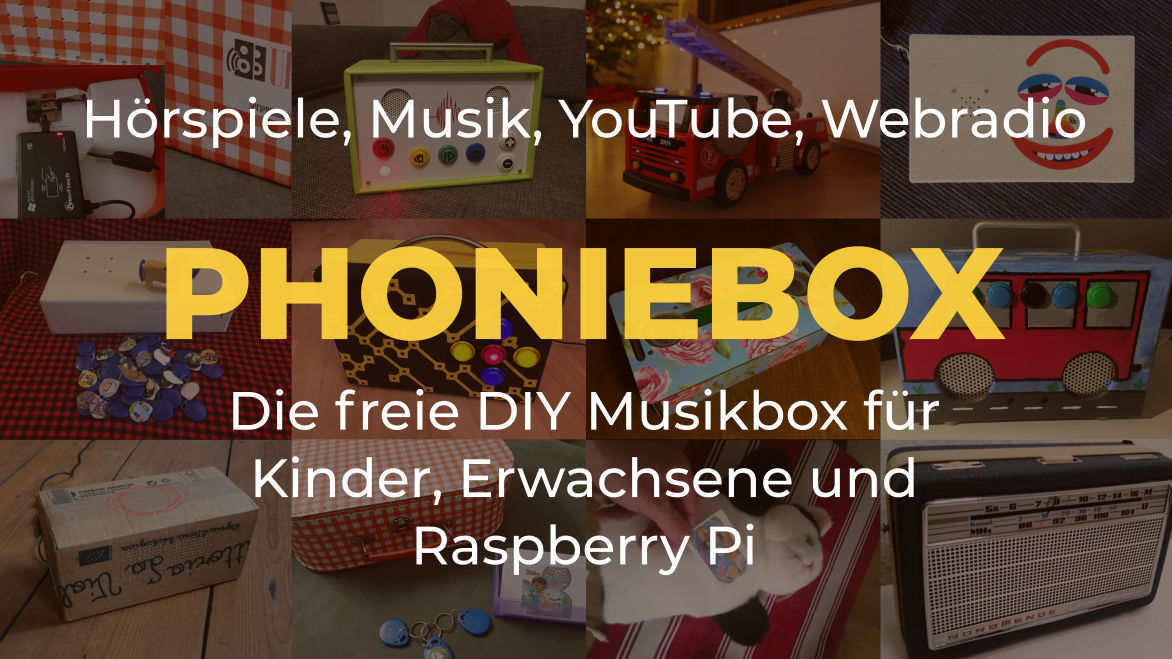
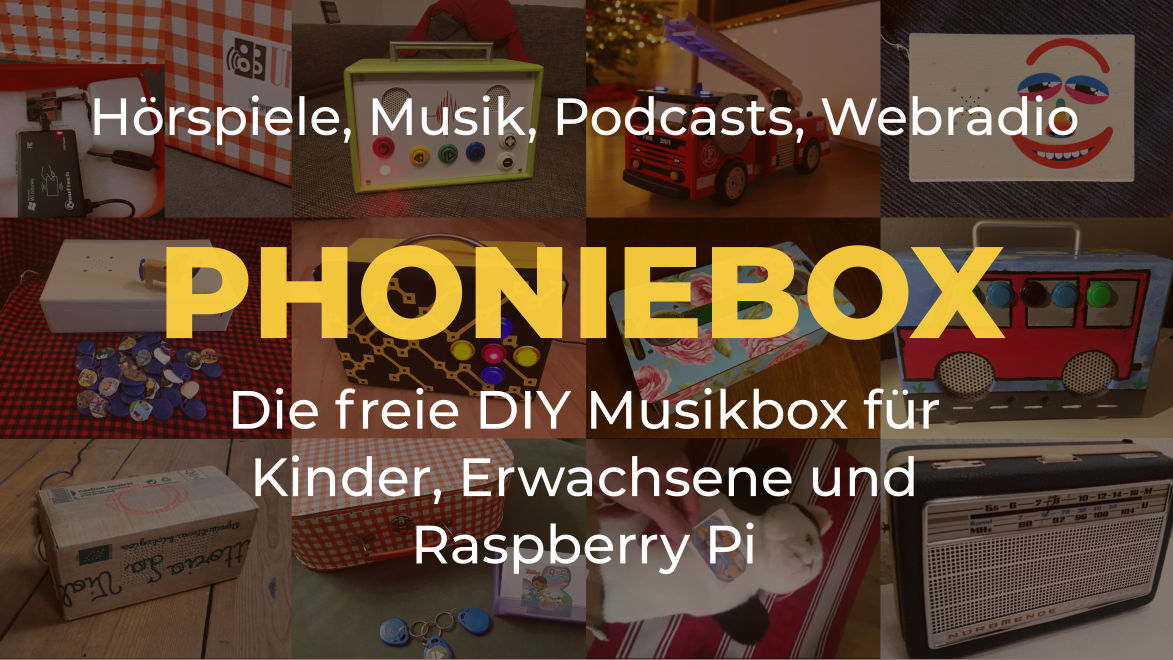
adding podcast

diff --git a/htdocs/inc.lang.php b/htdocs/inc.lang.php
@@ -7,13 +7,13 @@ $lang['de']['languageDeAbbrev'] = "de";
 $lang['de']['type'] = "website";
 $lang['de']['author'] = "Micz Flor";
 $lang['de']['title'] = "Phoniebox - die freie Musikbox für Kinder, Erwachsene und Bastler/innen";
-$lang['de']['description'] = "Hörspiele, Musik, sogar YouTube, Webradio und Spotify spielt die Musikbox. Einfach die Phonie-Karte über die Box streichen und der Hörspaß beginnt. Die Komponenten sind schnell zusammengesteckt und die Software gibt es gratis im Netz. Über WLAN lässt sich die Phoniebox auch mit Handy, PC und Tablet steuern.";
+$lang['de']['description'] = "Musik, Podcasts, Hörspiele, YouTube, Webradio, sogar Spotify spielt die Musikbox. Einfach die Phonie-Karte über die Box streichen und der Hörspaß beginnt. Die Komponenten sind schnell zusammengesteckt und die Software gibt es gratis im Netz. Über WLAN lässt sich die Phoniebox auch mit Handy, PC und Tablet steuern.";
 $lang['de']['keywords'] = "Raspberry, DIY, Jukebox, Hörspiele, Musik, YouTube, Webradio, Spotify";
 $lang['de']['url'] = "http://phoniebox.de";
 $lang['de']['imageUrl'] = "http://phoniebox.de/img/Phoniebox-Social-Share-de.jpg";
 $lang['de']['twitterCard'] = "summary_large_image";
 $lang['de']['twitterCreator'] = "@miczflor";
-$lang['de']['headerLeadIn'] = "Hörspiele, Musik, YouTube, Webradio";
+$lang['de']['headerLeadIn'] = "Hörspiele, Podcasts, Musik, YouTube, Webradio";
 $lang['de']['headerTitle'] = "Die Phoniebox";
 $lang['de']['headerStart'] = "So funktioniert's";
 $lang['de']['videoLeadIn'] = "Die Phoniebox im Video erklärt:";
@@ -33,8 +33,8 @@ $lang['de']['timeline02description'] = "Ganz ohne Lötkolben, schnell zusammenge
 $lang['de']['timeline03title'] = "Steuerung über";
 $lang['de']['timeline03subtitle'] = "Handy oder PC";
 $lang['de']['timeline03description'] = "Die Phoniebox ist über WiFi mit deinem Handy, Tablet oder PC verbunden. So kann man sie auch bedienen und mit Musik bestücken.";
-$lang['de']['timeline04title'] = "CDs, Kassetten, MP3";
-$lang['de']['timeline04subtitle'] = "YouTube, Webradio und mehr";
+$lang['de']['timeline04title'] = "CDs? Kassetten? MP3! OGG!";
+$lang['de']['timeline04subtitle'] = "Podcasts, Webradio, YouTube und mehr";
 $lang['de']['timeline04description'] = "Die Phoniebox spielt (fast) alles. Fortgeschrittene Tüftler haben sogar schon <a href='https://github.com/MiczFlor/RPi-Jukebox-RFID/issues/18' target='_blank'>Spotify integriert</a>.";
 $lang['de']['featuresTitle'] = "You never build alone";
 $lang['de']['featuresSubtitle'] = "Freie Software, Community und Raspberry Pi";
@@ -109,13 +109,13 @@ $lang['en']['languageDeAbbrev'] = "de";
 $lang['en']['type'] = "website";
 $lang['en']['author'] = "Micz Flor";
 $lang['en']['title'] = "Phoniebox - free jukebox which is child's play to build and child's play to use.";
-$lang['en']['description'] = "This free DIY contactless jukebox for Raspberry Pi plays local music, audio books, also webradio, live streams, spotify and more. Simply swipe the RFID card, fob or sticker to trigger the audio fun. Quickly assembled from plug'n'play components, this free software solution is fun to build and just as much fun to use.";
-$lang['en']['keywords'] = "Raspberry Pi, DIY, Jukebox, Audio books, Plays, Music, YouTube, Webradio, Spotify";
+$lang['en']['description'] = "This contactless jukebox for Raspberry Pi plays local music and podcasts, audio books, also webradio, live streams, spotify and more. Simply swipe the RFID card, fob or sticker to trigger the audio fun. Quickly assembled from plug'n'play components, this free software solution is fun to build and just as much fun to use.";
+$lang['en']['keywords'] = "Raspberry Pi, Podcasts, DIY, Jukebox, Audio books, Plays, Music, YouTube, Webradio, Spotify";
 $lang['en']['url'] = "http://phoniebox.de";
 $lang['en']['imageUrl'] = "http://phoniebox.de/img/Phoniebox-Social-Share-en.jpg";
 $lang['en']['twitterCard'] = "summary_large_image";
 $lang['en']['twitterCreator'] = "@miczflor";
-$lang['en']['headerLeadIn'] = "Music, Audio Books, YouTube, Webradio";
+$lang['en']['headerLeadIn'] = "Music, Podcasts, Audio Books, YouTube, Webradio";
 $lang['en']['headerTitle'] = "The Phoniebox";
 $lang['en']['headerStart'] = "How it works";
 $lang['en']['videoLeadIn'] = "The Phoniebox video guide:";
@@ -135,8 +135,8 @@ $lang['en']['timeline02description'] = "Quickly assembled from plug'n'play compo
 $lang['en']['timeline03title'] = "Manage via";
 $lang['en']['timeline03subtitle'] = "phone or PC";
 $lang['en']['timeline03description'] = "The Phoniebox is accessible over WiFi from your phone, tablet or PC. This is how you add audio files, streams and register new cards.";
-$lang['en']['timeline04title'] = "CDs, tapes, mp3";
-$lang['en']['timeline04subtitle'] = "YouTube, web radio and more";
+$lang['en']['timeline04title'] = "CDs? Tapes? MP3! OGG!";
+$lang['en']['timeline04subtitle'] = "Podcasts, web radio, YouTube and more";
 $lang['en']['timeline04description'] = "The Phoniebox plays (almost) everything. Some smarty pants even got <a href='https://github.com/MiczFlor/RPi-Jukebox-RFID/issues/18' target='_blank'>Spotify working</a>.";
 $lang['en']['featuresTitle'] = "You never build alone";
 $lang['en']['featuresSubtitle'] = "Free software, community and Raspberry Pi";

diff --git a/htdocs/index.php b/htdocs/index.php
@@ -152,12 +152,8 @@ include("inc.socialshare.php");
                   </div>
                 </div>
               </li>
-              <!--li class="timeline-inverted">
-                <div class="timeline-image">
-                  <h4>Kinder<br>hören<br>Eltern<br>baseln</h4>
-                </div>
-              </li-->
             </ul>
+            <img src="img/cassette-3115946_1920-small.jpg" style="max-width: 100%;" class="" alt="digitise old tapes">
           </div>
         </div>
       </div>
